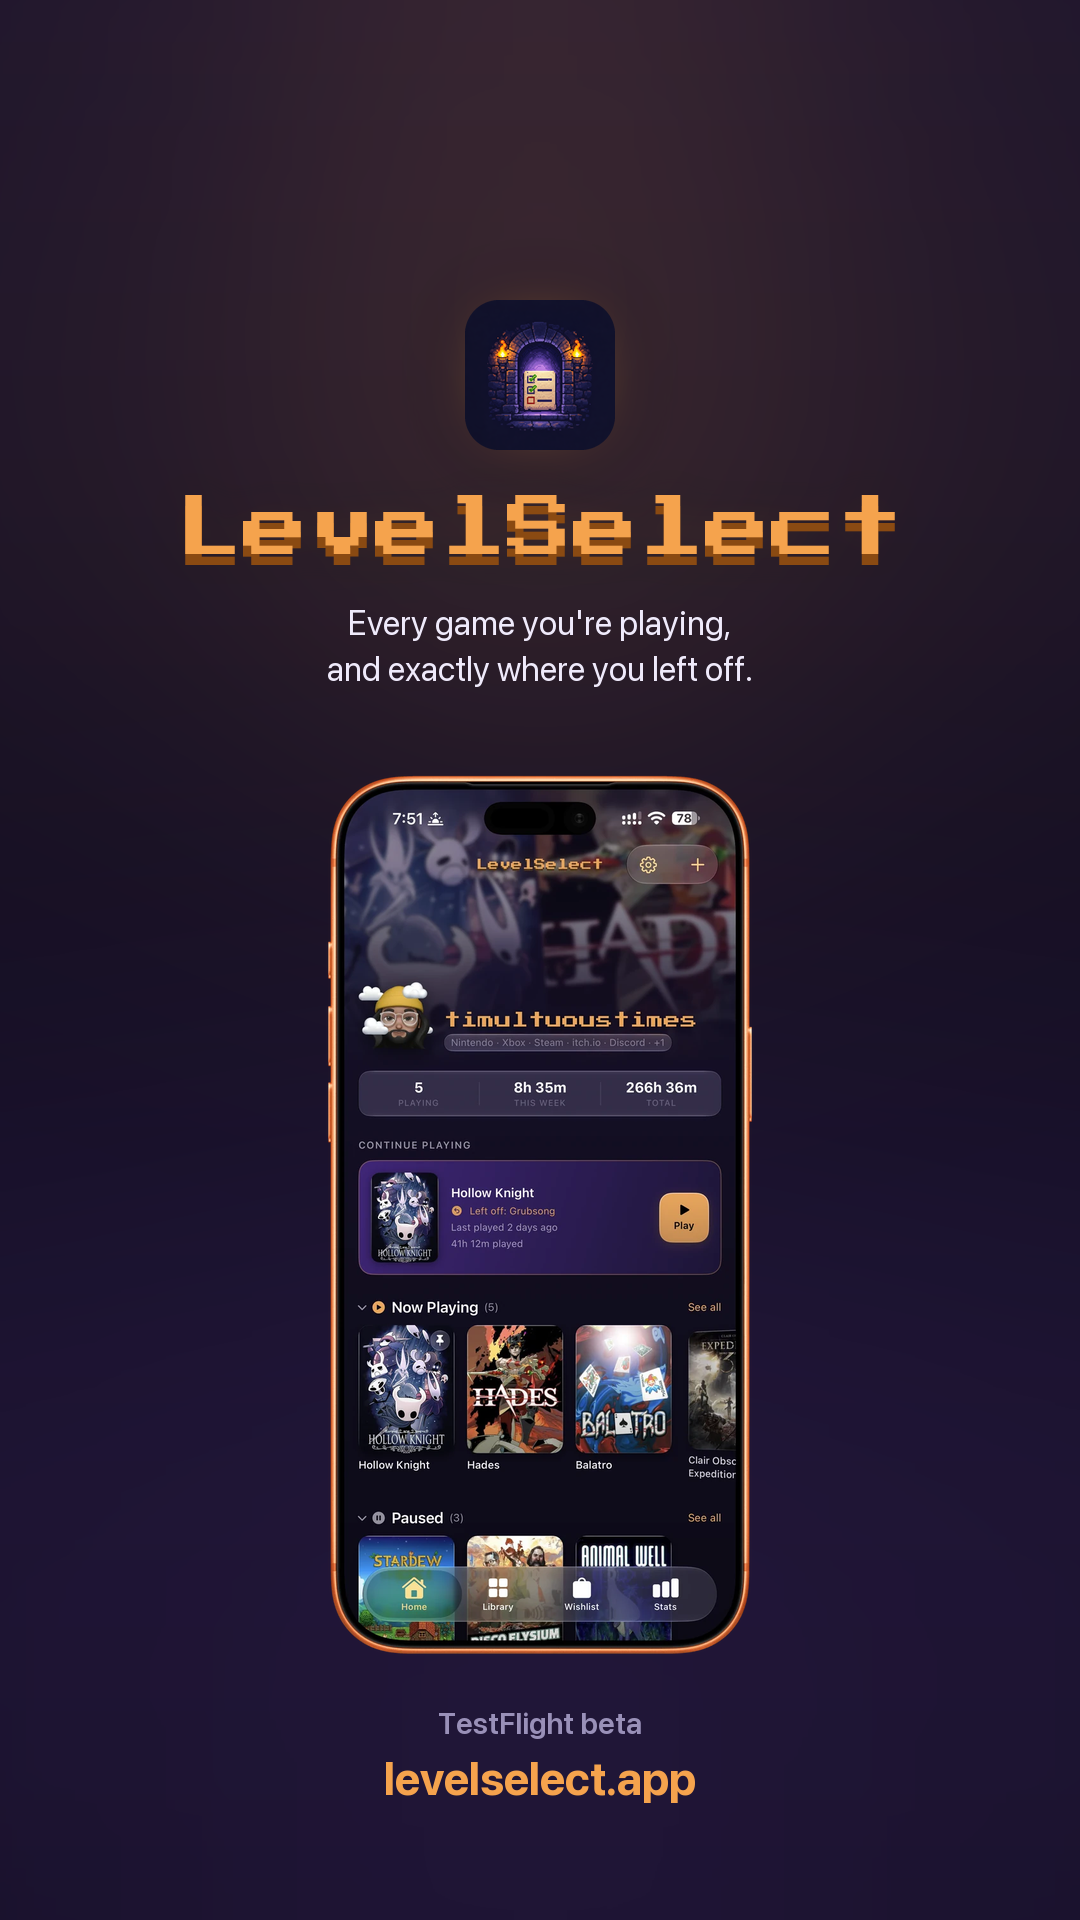
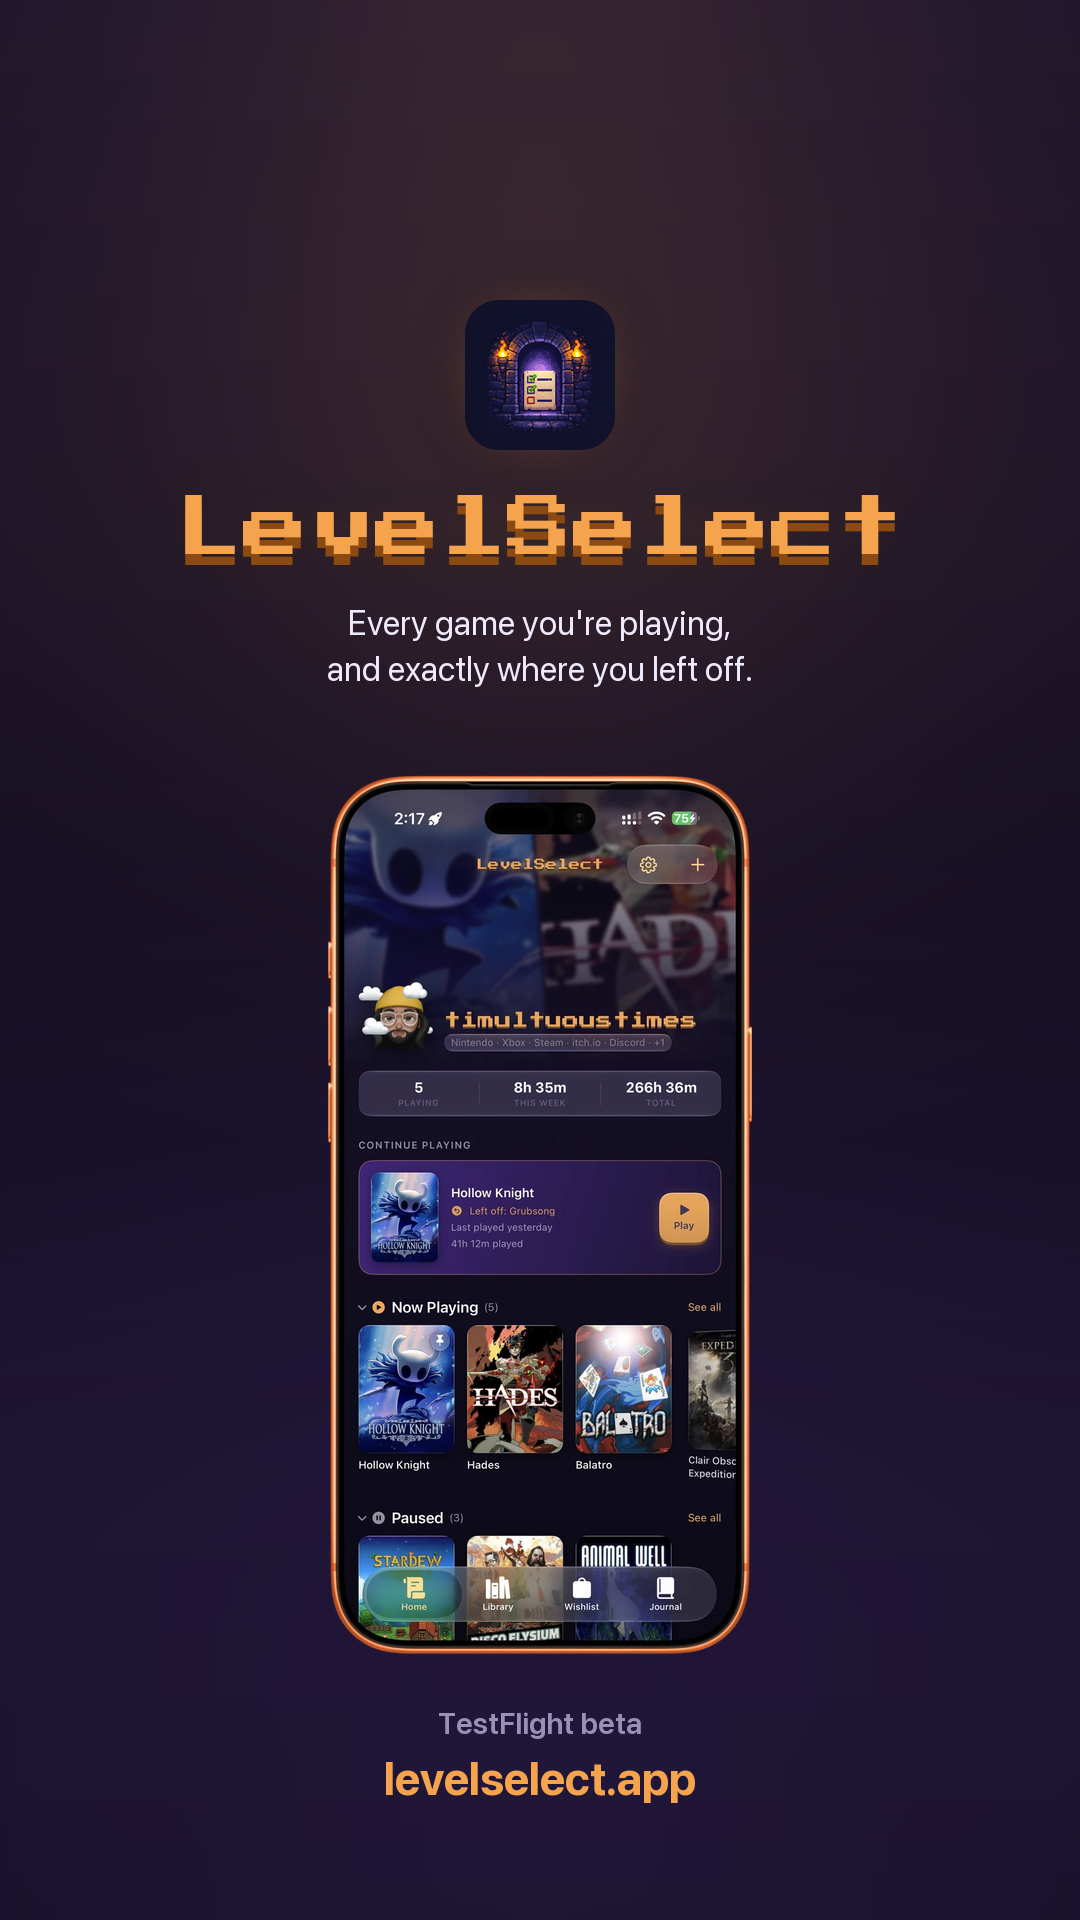
The link preview stops showing a tab that is gone
`make-social-images.py` pinned `iphone-33-home-profile.webp`, so the one image
representing the app everywhere it gets linked — Reddit, Mastodon, Bluesky,
iMessage, Slack — still had a four-tab bar reading Stats.

Regenerated all six: og, og-2up (the one `Base.astro` actually serves), and the
four Instagram sizes.

The iPad half keeps `ipad-01-split-tracker` by Tim's call. Its bar does read
Stats, but it has no tab icons and at unfurl size it is a few pixels.

diff --git a/site/scripts/make-social-images.py b/site/scripts/make-social-images.py
@@ -42,7 +42,10 @@ MUTED       = (153, 144, 184)
 #
 # The iPad shot is a game page with its tracker open, which keeps the pairing
 # honest: the unfurl shows where you land and where you end up.
-PHONE_SHOT = "iphone-33-home-profile.webp"
+# Build 36 renamed the fourth tab and gave the app the Journal, so the
+# build-33 capture showed a tab bar that no longer exists — on the one image
+# that represents the app everywhere it is linked.
+PHONE_SHOT = "iphone-36-home-profile.webp"
 IPAD_SHOT  = "ipad-01-split-tracker.webp"
 
 PIXEL = str(PUB / "assets" / "PressStart2P-Regular.ttf")
